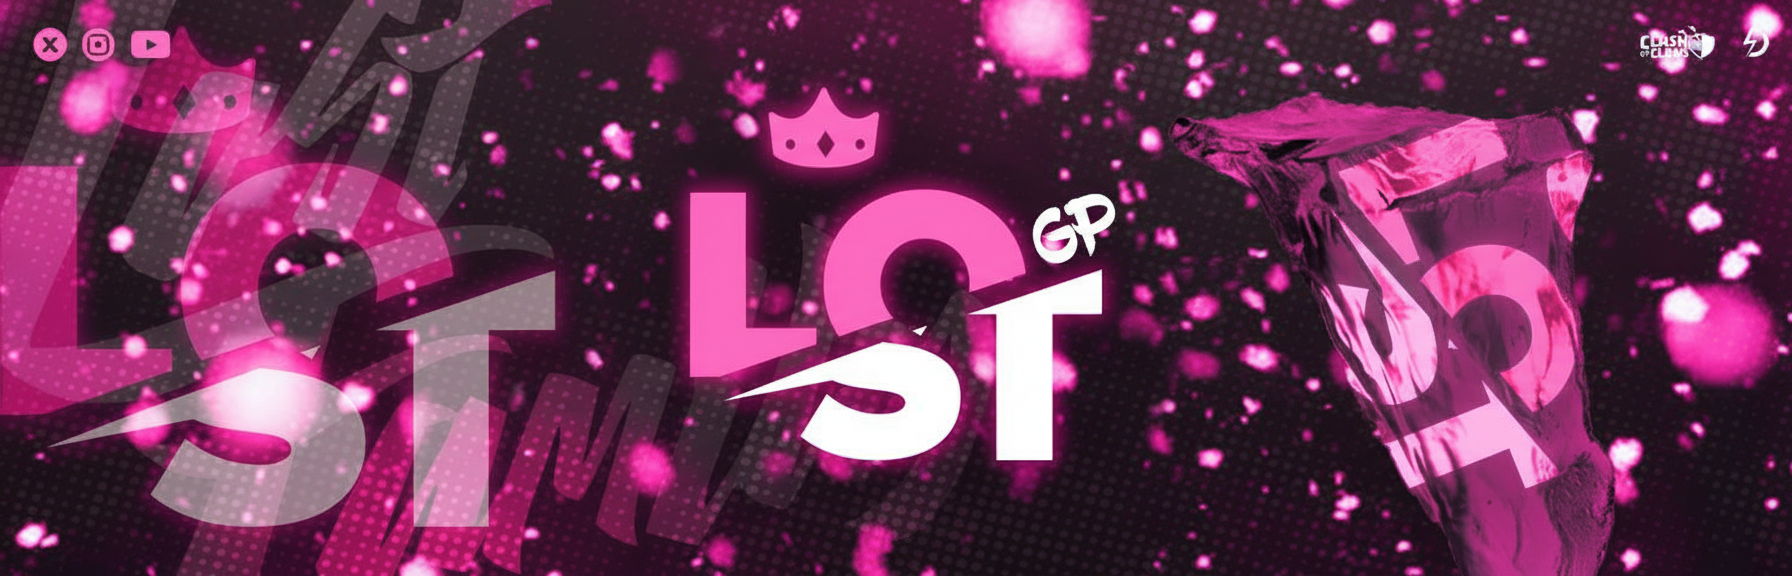
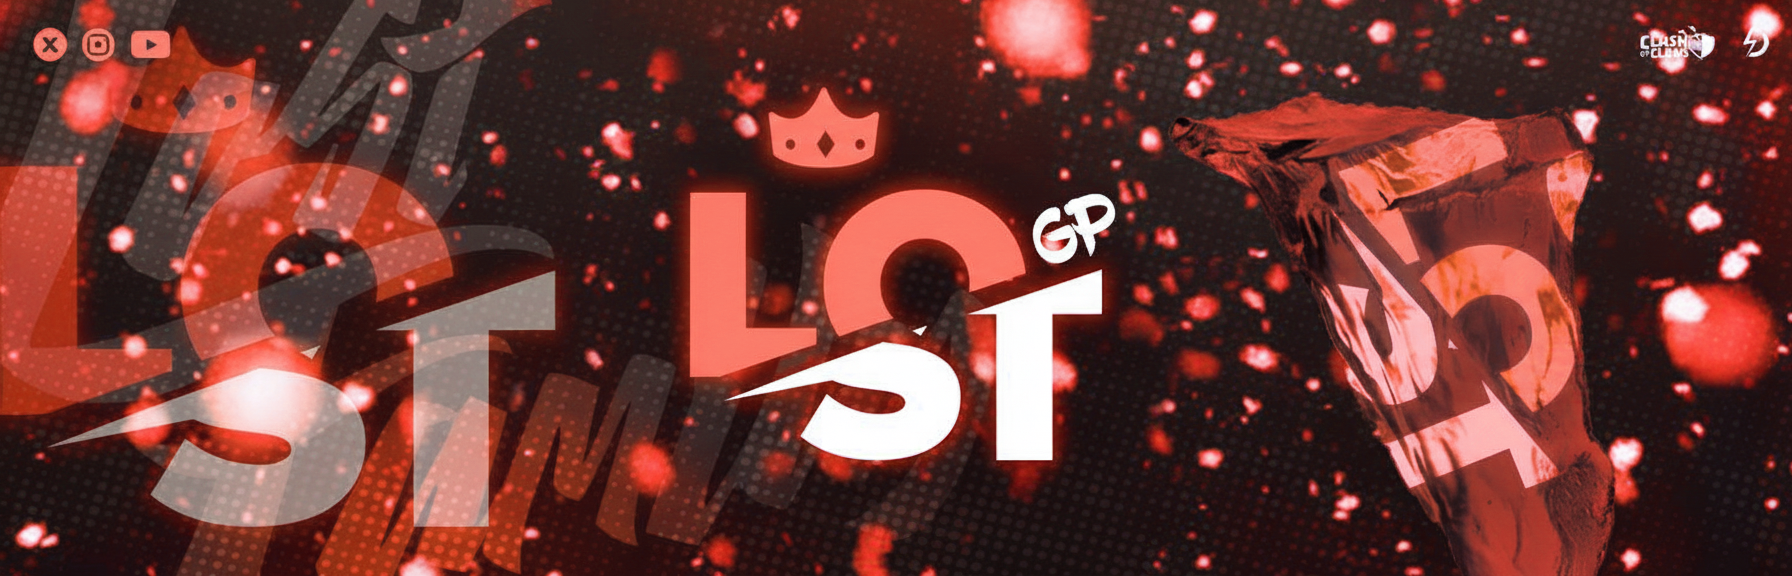
LOST GP auf die Discord-Farbe be4d40 umstellen
LOST GP ist der Clan der F2P-+-Pass-Challenge ("Offizieller Clan der F2P+Pass
Challenge" steht in seiner Beschreibung). Auf Discord trägt er be4d40, die
Website führte ihn in Magenta — das passte nicht zusammen.

Das Banner ist wieder eine Drehung im Farbkreis statt einer neuen Grafik:
Lost-X-gp.png um 280° gedreht auf... nein, um 42°, von Farbton 324° auf 6°,
womit es die Zielfarbe trifft. Ohne Dämpfung der Sättigung, damit es zur
Familie passt; vom kräftigeren Rot von LOST F2P (Farbton 358°, deutlich
satter) bleibt es unterscheidbar.

Dazu eine Reihenfolge, die vorher eine Falle war: "GP" wird jetzt vor "F2P"
geprüft und "PASS" zählt mit. Hieße der Clan auf der Website einmal
ausgeschrieben "LOST F2P + Pass", hätte er bis eben das Banner und die Farbe
von LOST F2P bekommen.

diff --git a/website/src/lib/clanDisplay.ts b/website/src/lib/clanDisplay.ts
@@ -30,9 +30,11 @@ export function getClanBanner(clanName: string, gameType?: GameType): string {
         return bannerDefault;
     }
 
+    // Vor F2P und nicht danach: LOST GP heisst ausgeschrieben "LOST F2P + Pass"
+    // und wuerde sonst am F2P-Zweig haengenbleiben.
+    if (name.includes('GP') || name.includes('PASS')) return bannerGP;
     if (name.includes('F2P 2') || name.includes('F2P2')) return bannerF2P2;
     if (name.includes('F2P')) return bannerF2P;
-    if (name.includes('GP')) return bannerGP;
     if (name.includes('7') || name.includes('VII')) return banner7;
     if (name.includes('6') || name.includes('VI')) return banner6;
     if (name.includes('4') || name.includes('IV')) return banner4;
@@ -44,7 +46,9 @@ export function getClanBanner(clanName: string, gameType?: GameType): string {
 
 export function getClanColor(name: string, index: number): string {
     const n = (name || '').toUpperCase();
-    if (n.includes('GP')) return '#a5025a';
+    // Wie oben zuerst: der Name traegt beides. Das Rot ist die Rollenfarbe des
+    // Clans auf Discord; das Banner Lost-X-gp.png ist darauf umgefaerbt.
+    if (n.includes('GP') || n.includes('PASS')) return '#be4d40';
     if (n.includes('ANTHRAZIT')) return '#3d3a3f';
 
     if (n.includes('F2P 2') || n.includes('F2P2')) return '#05762b';
